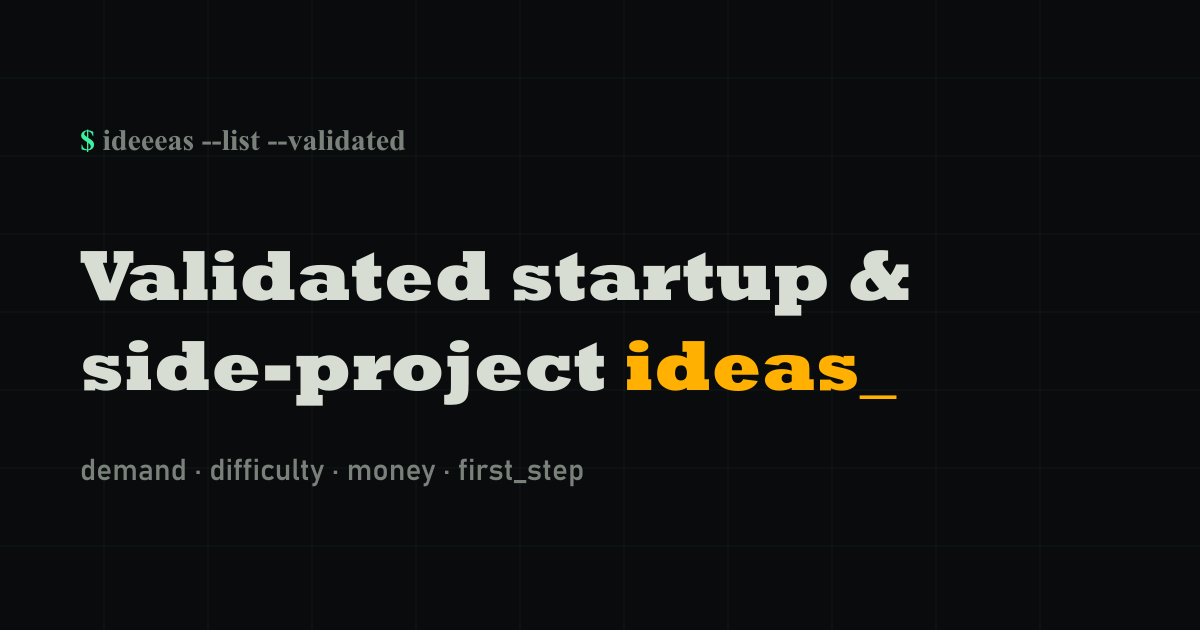
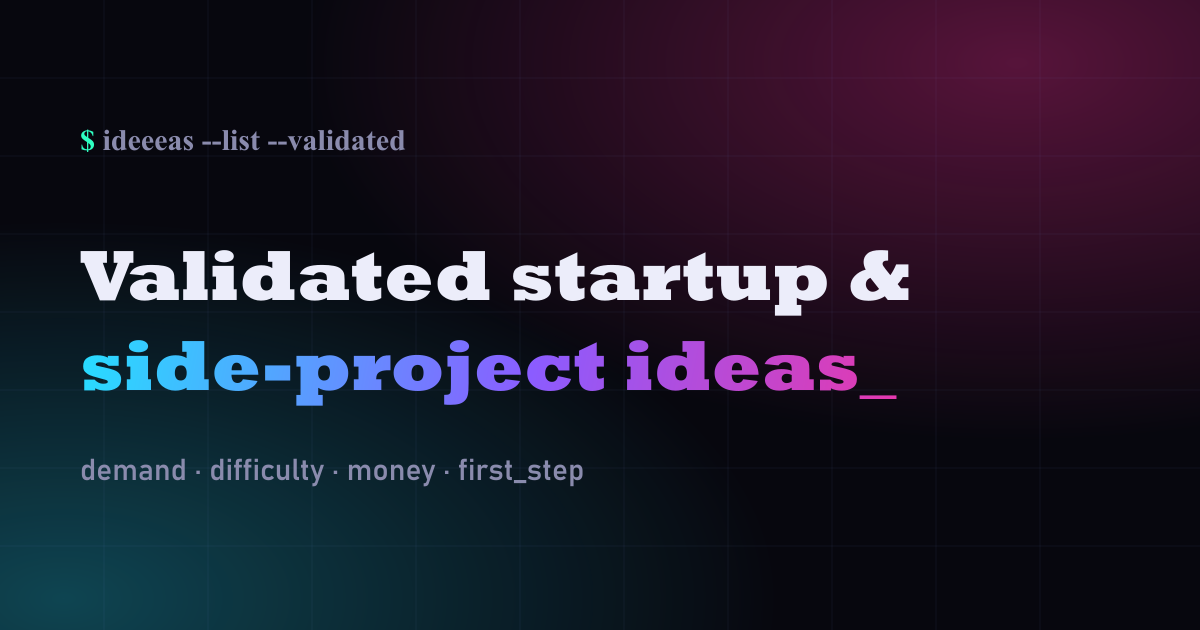
Redesign: vibrant neon on the dark tech base
Keep terminal/mono feel but make it pop: multi-hue neon palette (cyan/magenta/
violet/lime/orange/blue/mint/yellow), animated neon gradient headlines + glow,
corner aurora glows over the grid, per-collection colour identity via neon.js
(legend + glow + hover bloom each card its own colour), neon gradient buttons.
Neon favicon + OG. Content + JSON-LD unchanged.

diff --git a/src/styles/global.css b/src/styles/global.css
@@ -4,14 +4,20 @@
   --font-sans: "JetBrains Mono", ui-monospace, "SFMono-Regular", Menlo, monospace;
   --font-display: "JetBrains Mono", ui-monospace, monospace;
 
-  --color-term: #0a0b0d;       /* page */
-  --color-panel: #101317;      /* raised */
-  --color-text: #d7ddd2;       /* phosphor off-white */
-  --color-fog: #79817a;        /* muted */
-  --color-amber: #ffb000;      /* primary CRT amber */
-  --color-green: #3ef0a0;      /* secondary phosphor green */
-  --color-red: #ff5f56;        /* warn */
-  --color-line: rgba(120, 255, 180, 0.12);
+  --color-term: #07070e;       /* page */
+  --color-panel: #0e0e1c;      /* raised */
+  --color-text: #ecedfa;       /* off-white */
+  --color-fog: #8a8bad;        /* muted */
+
+  /* neon set */
+  --color-cyan: #22e3ff;
+  --color-magenta: #ff2e97;
+  --color-violet: #8b5cff;
+  --color-lime: #b6ff3c;
+  --color-orange: #ff8a3c;
+  --color-blue: #3c7bff;
+  --color-mint: #2effc2;
+  --color-yellow: #ffd23c;
 }
 
 @layer base {
@@ -20,64 +26,87 @@
     font-family: var(--font-sans);
     font-feature-settings: "liga" 0;
     -webkit-font-smoothing: antialiased;
-    /* faint terminal grid */
     background-image:
-      linear-gradient(rgba(120, 255, 180, 0.035) 1px, transparent 1px),
-      linear-gradient(90deg, rgba(120, 255, 180, 0.035) 1px, transparent 1px);
-    background-size: 26px 26px;
+      radial-gradient(48rem 32rem at 88% -8%, rgba(255, 46, 151, 0.16), transparent 60%),
+      radial-gradient(46rem 34rem at -6% 4%, rgba(34, 227, 255, 0.14), transparent 58%),
+      radial-gradient(40rem 30rem at 50% 120%, rgba(139, 92, 255, 0.16), transparent 60%),
+      linear-gradient(rgba(120, 180, 255, 0.035) 1px, transparent 1px),
+      linear-gradient(90deg, rgba(120, 180, 255, 0.035) 1px, transparent 1px);
+    background-size: auto, auto, auto, 26px 26px, 26px 26px;
+    background-attachment: fixed, fixed, fixed, scroll, scroll;
   }
-  ::selection { background: var(--color-amber); color: #0a0b0d; }
+  ::selection { background: var(--color-magenta); color: #fff; }
 }
 
 .font-display { font-family: var(--font-display); }
-
 .wrap { max-width: 72rem; margin-inline: auto; padding-inline: 1.25rem; }
 .wrap-narrow { max-width: 46rem; margin-inline: auto; padding-inline: 1.25rem; }
 
 /* prompt + caret */
-.prompt::before { content: "$ "; color: var(--color-green); }
-.caret { display: inline-block; width: 0.6ch; height: 1.05em; vertical-align: -0.15em; background: var(--color-amber); animation: blink 1.05s step-end infinite; }
+.prompt::before { content: "$ "; color: var(--color-mint); }
+.caret { display: inline-block; width: 0.6ch; height: 1.05em; vertical-align: -0.15em;
+  background: var(--color-cyan); box-shadow: 0 0 10px var(--color-cyan); animation: blink 1.05s step-end infinite; }
 @keyframes blink { 50% { opacity: 0; } }
 
-.amber { color: var(--color-amber); }
-.green { color: var(--color-green); }
+/* neon gradient display text */
+.grad-text {
+  background: linear-gradient(100deg, #22e3ff 0%, #8b5cff 45%, #ff2e97 100%);
+  background-size: 200% auto;
+  -webkit-background-clip: text; background-clip: text; color: transparent;
+  animation: hue 8s linear infinite;
+}
+@keyframes hue { to { background-position: 200% center; } }
 
-/* schematic / fieldset box with a legend label sitting on the border */
-.term-box { position: relative; border: 1px solid rgba(120, 255, 180, 0.22); background: rgba(255, 255, 255, 0.012); }
+.glow { text-shadow: 0 0 18px color-mix(in srgb, currentColor 70%, transparent); }
+
+/* coloured-accent schematic box; --c is the per-item neon colour */
+.term-box {
+  --c: var(--color-cyan);
+  position: relative;
+  border: 1px solid color-mix(in srgb, var(--c) 28%, transparent);
+  background: rgba(255, 255, 255, 0.014);
+}
 .term-box > .legend {
   position: absolute; top: 0; left: 1rem; transform: translateY(-50%);
   background: var(--color-term); padding-inline: 0.5rem;
-  font-size: 0.72rem; letter-spacing: 0.04em; color: var(--color-amber);
+  font-size: 0.72rem; letter-spacing: 0.04em;
+  color: var(--c); text-shadow: 0 0 12px color-mix(in srgb, var(--c) 65%, transparent);
 }
-.term-hover { transition: border-color 0.18s ease, box-shadow 0.18s ease, transform 0.18s ease; }
-.term-hover:hover { border-color: rgba(255, 176, 0, 0.6); box-shadow: 0 0 0 1px rgba(255, 176, 0, 0.25), 0 14px 40px -22px rgba(255, 176, 0, 0.5); transform: translateY(-2px); }
-
-/* bracket button */
-.btn-term {
-  border: 1px solid var(--color-amber); color: var(--color-amber);
-  background: transparent; font-weight: 700; letter-spacing: 0.02em;
-  transition: background 0.16s ease, color 0.16s ease, box-shadow 0.16s ease;
+.term-hover { transition: border-color 0.2s ease, box-shadow 0.2s ease, transform 0.2s ease; }
+.term-hover:hover {
+  border-color: var(--c);
+  box-shadow: 0 0 0 1px var(--c), 0 18px 55px -24px color-mix(in srgb, var(--c) 85%, transparent);
+  transform: translateY(-3px);
 }
-.btn-term:hover { background: var(--color-amber); color: #0a0b0d; box-shadow: 0 0 22px -4px rgba(255, 176, 0, 0.6); }
-.btn-ghost {
-  border: 1px solid rgba(120, 255, 180, 0.3); color: var(--color-text);
-  transition: border-color 0.16s ease, color 0.16s ease;
+
+/* buttons */
+.btn-neon {
+  background: linear-gradient(100deg, var(--color-cyan), var(--color-violet) 55%, var(--color-magenta));
+  color: #07070e; font-weight: 700; letter-spacing: 0.01em; border: 0;
+  box-shadow: 0 0 22px -4px rgba(139, 92, 255, 0.7);
+  transition: transform 0.18s ease, box-shadow 0.18s ease, filter 0.18s ease;
 }
-.btn-ghost:hover { border-color: var(--color-green); color: var(--color-green); }
+.btn-neon:hover { transform: translateY(-2px); filter: brightness(1.08) saturate(1.1); box-shadow: 0 0 34px -2px rgba(255, 46, 151, 0.7); }
 
-.rule { height: 1px; background: repeating-linear-gradient(90deg, rgba(120,255,180,0.3) 0 6px, transparent 6px 12px); }
+.btn-wire {
+  border: 1px solid color-mix(in srgb, var(--color-cyan) 55%, transparent); color: var(--color-cyan);
+  transition: border-color 0.18s ease, color 0.18s ease, box-shadow 0.18s ease;
+}
+.btn-wire:hover { border-color: var(--color-cyan); box-shadow: 0 0 22px -4px var(--color-cyan); color: #fff; }
 
-.spark-link { color: var(--color-green); text-decoration: none; border-bottom: 1px dashed rgba(62, 240, 160, 0.5); }
-.spark-link:hover { color: var(--color-amber); border-bottom-color: var(--color-amber); }
+.rule { height: 1px; background: linear-gradient(90deg, transparent, #22e3ff, #8b5cff, #ff2e97, transparent); opacity: 0.6; }
 
-.chip { border: 1px solid rgba(120, 255, 180, 0.25); color: var(--color-fog); }
+.spark-link { color: var(--color-cyan); text-decoration: none; border-bottom: 1px dashed color-mix(in srgb, var(--color-cyan) 55%, transparent); }
+.spark-link:hover { color: var(--color-magenta); border-bottom-color: var(--color-magenta); text-shadow: 0 0 14px color-mix(in srgb, var(--color-magenta) 60%, transparent); }
 
-.reveal { opacity: 0; transform: translateY(12px); transition: opacity 0.5s ease, transform 0.5s ease; }
+.chip { border: 1px solid color-mix(in srgb, var(--color-violet) 35%, transparent); color: var(--color-text); background: rgba(139, 92, 255, 0.06); }
+
+.reveal { opacity: 0; transform: translateY(12px); transition: opacity 0.55s ease, transform 0.55s ease; }
 .reveal.in { opacity: 1; transform: none; }
 
 @media (prefers-reduced-motion: reduce) {
   .reveal { opacity: 1 !important; transform: none !important; transition: none; }
-  .caret { animation: none; }
-  .term-hover, .btn-term, .btn-ghost { transition: none; }
+  .caret, .grad-text { animation: none; }
+  .term-hover, .btn-neon, .btn-wire { transition: none; }
   html { scroll-behavior: auto; }
 }

diff --git a/src/data/neon.js b/src/data/neon.js
@@ -1,0 +1,14 @@
+// Vibrant neon accents, assigned deterministically by index so each
+// collection / card keeps a consistent, memorable colour identity.
+export const NEON = [
+  '#22e3ff', // cyan
+  '#ff2e97', // magenta
+  '#b6ff3c', // lime
+  '#8b5cff', // violet
+  '#ff8a3c', // orange
+  '#3c7bff', // blue
+  '#2effc2', // mint
+  '#ffd23c', // yellow
+];
+
+export const pickNeon = (i) => NEON[((i % NEON.length) + NEON.length) % NEON.length];